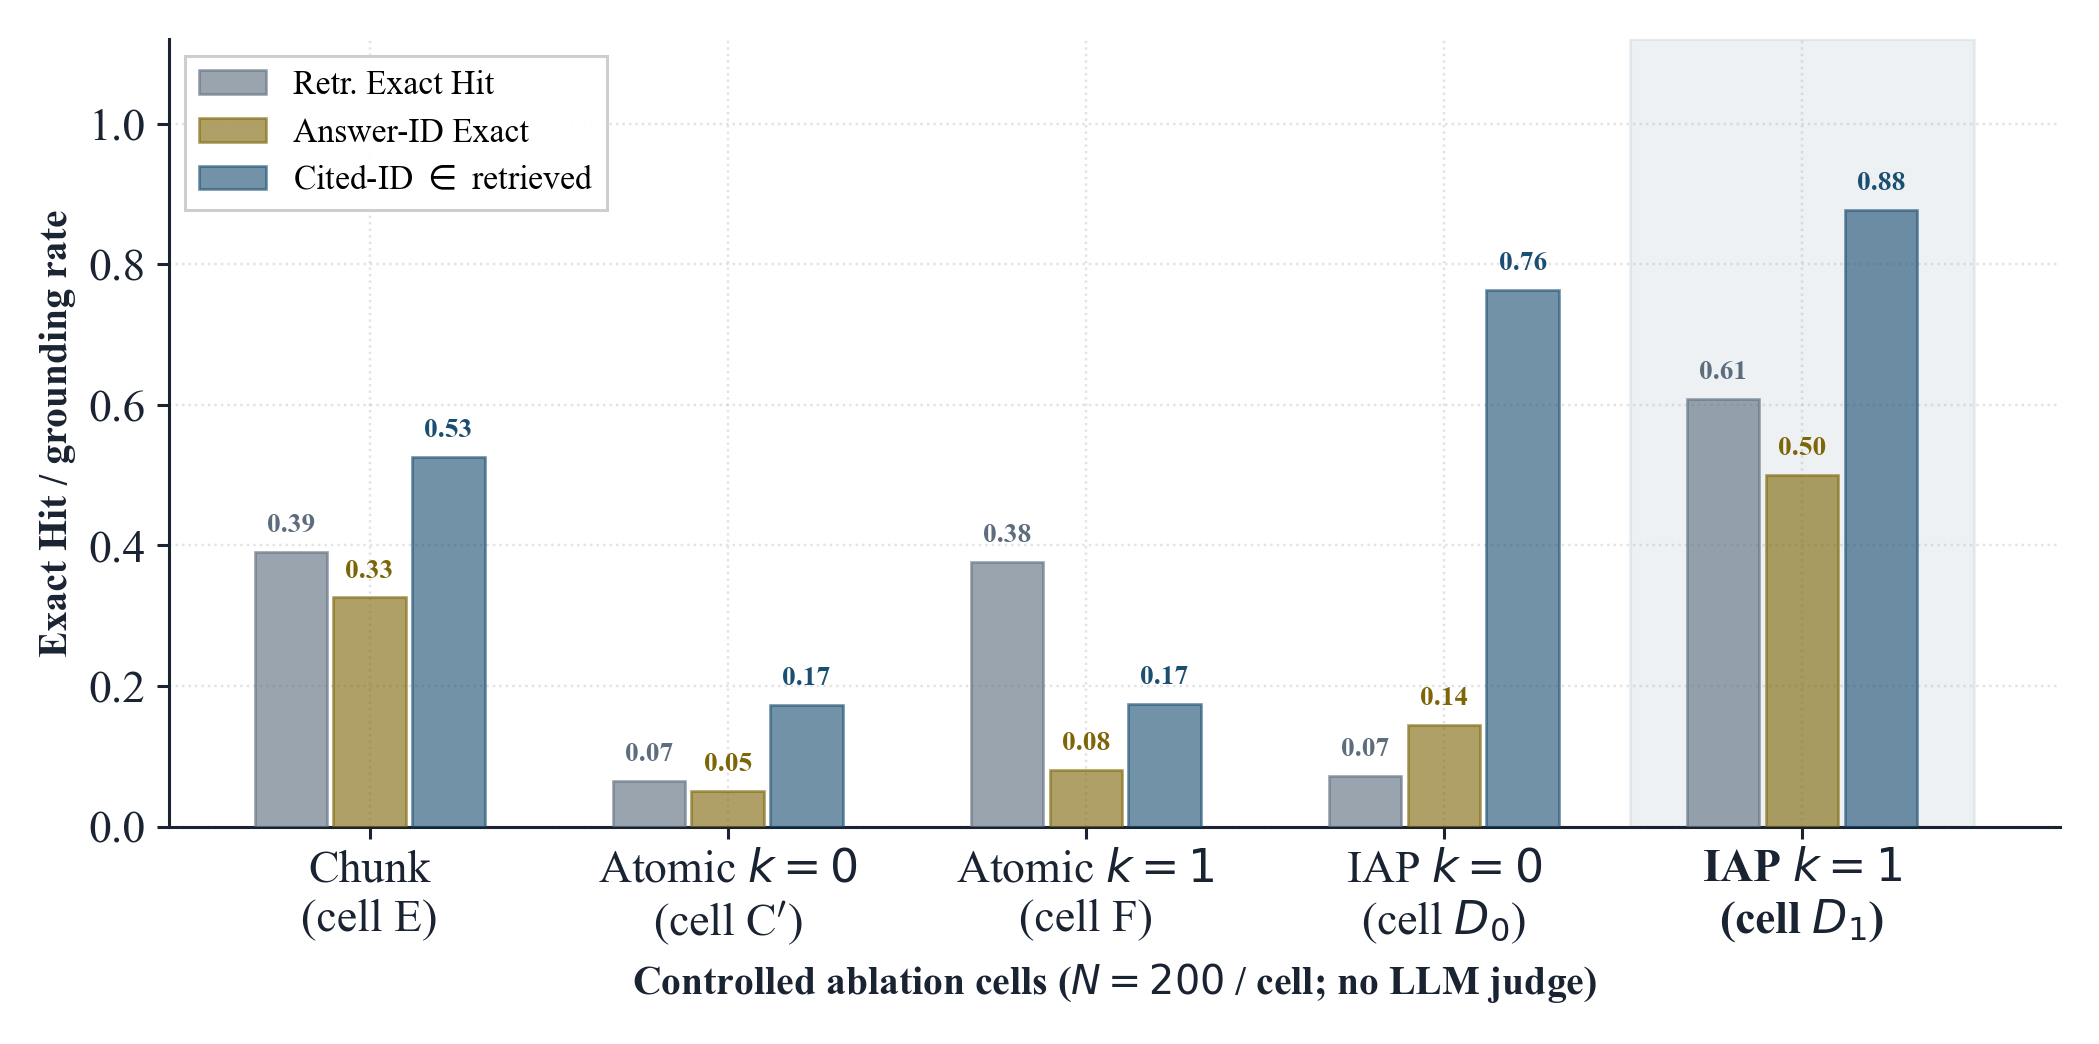
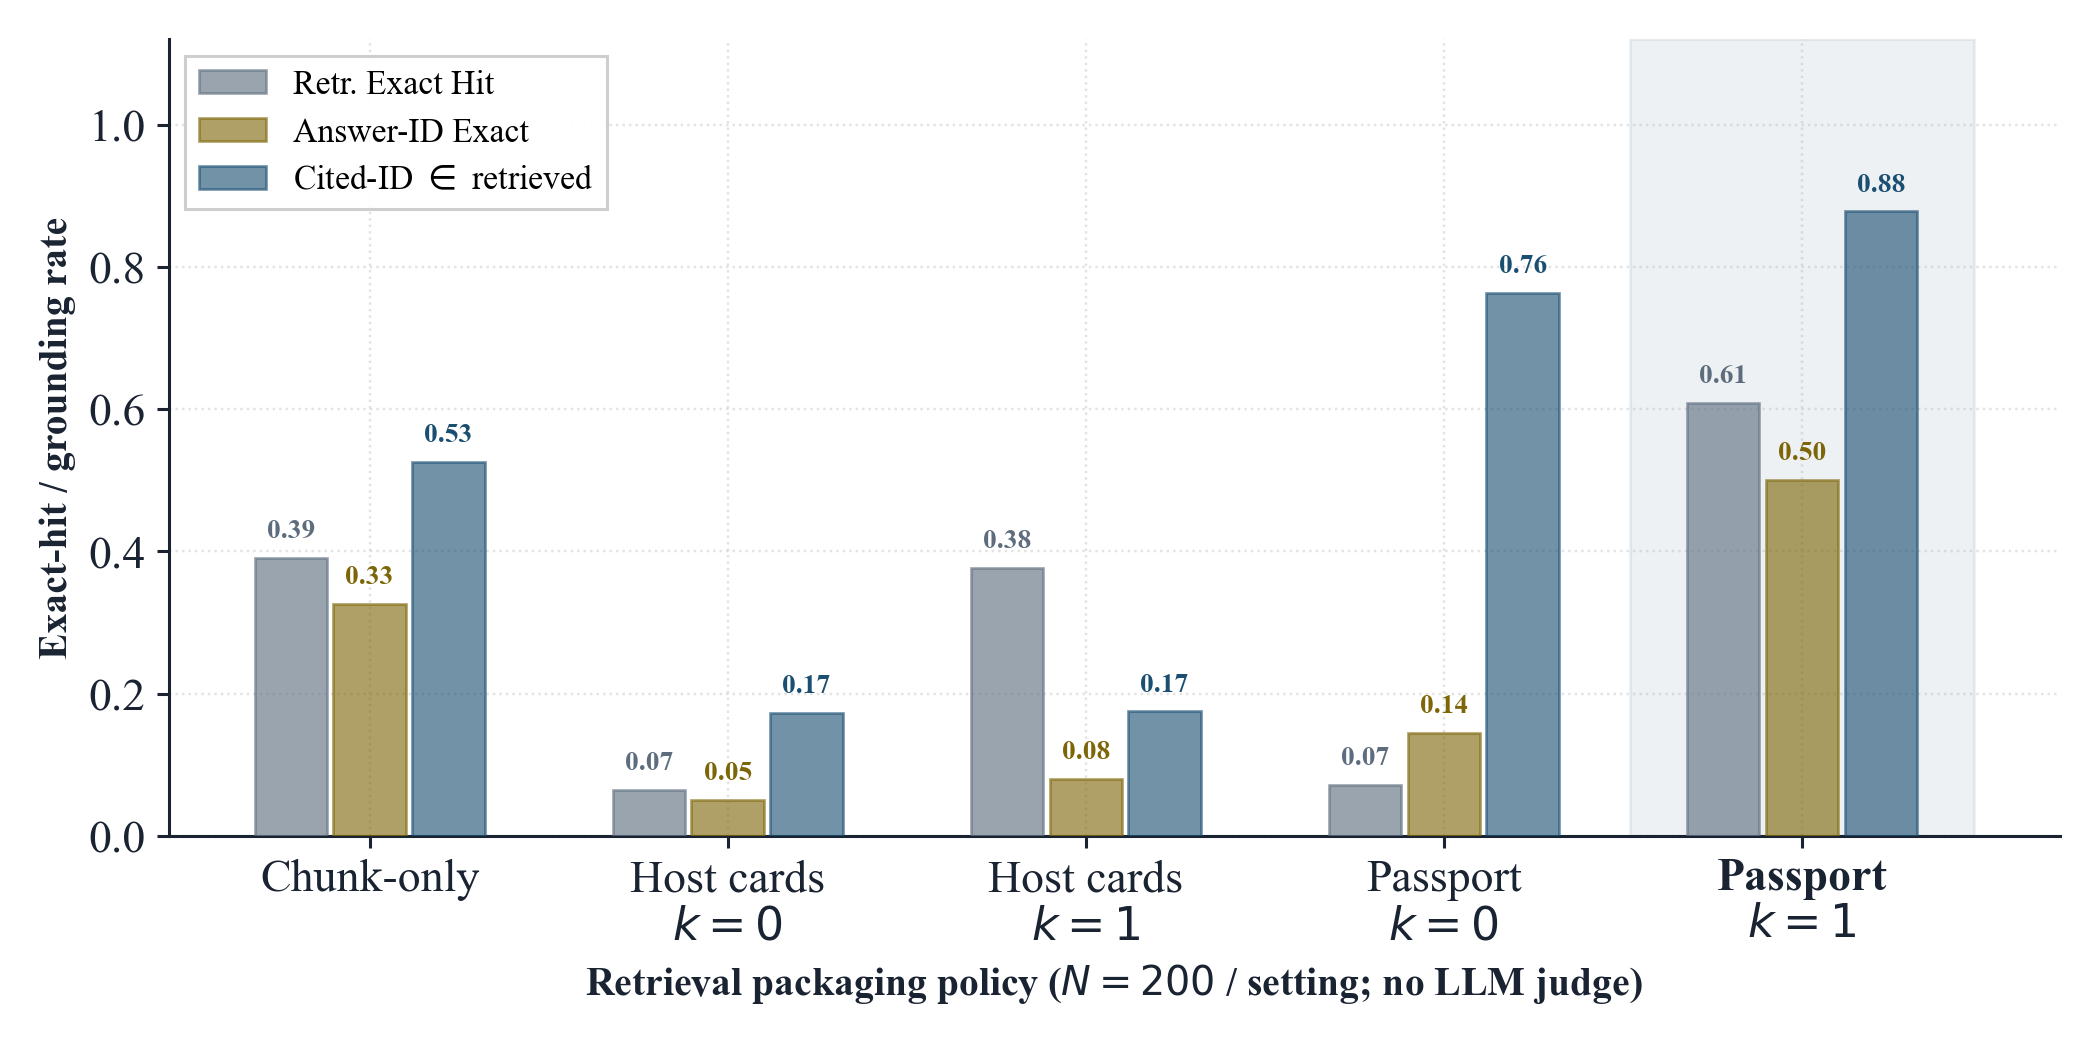
Reframe Fig 8.8 as a portable packaging-policy lesson.
Replace paper cell codes with book labels, and rewrite EN/CN caption and methods so the statistical panel teaches assembly policy rather than reprinting a paper ablation.

diff --git a/figures_src/statistical/scripts/plot_deterministic_rule_figures.py b/figures_src/statistical/scripts/plot_deterministic_rule_figures.py
@@ -43,13 +43,13 @@ TICK_FS = 12
 ANNOT_FS = 11
 LEGEND_FS = 11
 
-# Tick text is descriptive only (cell codes E/C'/F/D0/D1 stay in the LaTeX caption).
+# Book-facing labels (CSV row keys stay paper-stable; no cell codes on axes).
 ABLATION_ORDER = [
-    ("E chunk", "Chunk", "cell E"),
-    ("C' atomic k=0", "Atomic $k=0$", "cell C$'$"),
-    ("F atomic k=1", "Atomic $k=1$", "cell F"),
-    ("D0 IAP k=0", "IAP $k=0$", r"cell $D_0$"),
-    ("D1 IAP k=1", "IAP $k=1$", r"cell $D_1$"),
+    ("E chunk", "Chunk-only", "PDF chunks"),
+    ("C' atomic k=0", "Host cards\n$k=0$", "host cards, no hop"),
+    ("F atomic k=1", "Host cards\n$k=1$", "host cards + 1 hop"),
+    ("D0 IAP k=0", "Passport\n$k=0$", "asset passport"),
+    ("D1 IAP k=1", "Passport\n$k=1$", "passport + 1 hop"),
 ]
 
 # MH Exact Hit intentionally omitted from figure panels.
@@ -175,20 +175,17 @@ def plot_ablation(csv_path: Path, out_stem: Path) -> None:
 
     ax.axvspan(4 - 0.48, 4 + 0.48, color=theme_colors(None)["Ours"], alpha=0.08, zorder=0)
     ax.set_xticks(x)
-    ax.set_xticklabels(
-        [f"{name}\n({code})" for _, name, code in ABLATION_ORDER],
-        fontsize=TICK_FS,
-    )
+    ax.set_xticklabels([name for _, name, _ in ABLATION_ORDER], fontsize=TICK_FS)
     for tick, color in zip(ax.get_xticklabels(), tick_colors):
         tick.set_color(color)
     ax.get_xticklabels()[-1].set_fontweight("bold")
 
-    ax.set_ylabel("Exact Hit / grounding rate", fontweight="bold", fontsize=LABEL_FS)
+    ax.set_ylabel("Exact-hit / grounding rate", fontweight="bold", fontsize=LABEL_FS)
     ax.set_ylim(0, 1.12)
     ax.legend(loc="upper left", ncol=1, fontsize=LEGEND_FS, frameon=True, edgecolor="#cccccc")
     setup_academic_ax(ax, title=None)
     ax.set_xlabel(
-        r"Controlled ablation cells ($N=200$ / cell; no LLM judge)",
+        r"Retrieval packaging policy ($N=200$ / setting; no LLM judge)",
         fontweight="bold", fontsize=LABEL_FS,
     )
     fig.tight_layout()

diff --git a/latex/en/ch08.tex b/latex/en/ch08.tex
@@ -583,11 +583,11 @@ Write staging & twin updates pending only & draft button mutates twin \\
 \begin{figure}[htbp]
 \centering
 \includegraphics[width=\linewidth]{deterministic_ablation_exact_hit.pdf}
-\caption{Deterministic retrieval-packaging result on a frozen twin ($N=200$ questions per cell; no LLM judge): asset passports with controlled one-hop expansion retain more answer and cited IDs in the retrieved evidence than chunk-only packaging. Metrics are exact-hit rates over Asset-IDs; the figure evaluates assembly policy, not a contest among hosted chat models.}
+\caption{Worked quantitative illustration of retrieval packaging for inspection language systems. On one frozen twin and a fixed question set ($N=200$ per packaging setting; deterministic Asset-ID exact-hit metrics; no LLM as judge), passport-centred packs with controlled one-hop expansion keep more answer and cited IDs inside the retrieved evidence than chunk-only packs. Read the figure as a general design lesson about assembly policy, not as a site census or a leaderboard among hosted chat models.}
 \label{fig:ch8-ablation}
 \end{figure}
 
-Figure~\ref{fig:ch8-ablation} reports a deterministic packaging experiment used to justify passport-centred assembly for reports. Setup: a frozen twin snapshot; $N=200$ queries per packaging cell; no LLM as judge; primary metrics \texttt{retr\_exact\_hit} and answer/cited ID containment. Source summaries live under \texttt{figures\_src/statistical/data/}. Hop depth therefore belongs to evidence-assembly policy, not free prompt choice~\cite{lewis2020,jeon2025hybridrag,lee2024ragsafety}. Report drafts inherit that policy under V1--V4.
+Figure~\ref{fig:ch8-ablation} is kept in the monograph because Springer-style chapters may use a compact statistical panel when the panel teaches a \emph{portable design choice}, not when it merely reprints a paper ablation. The intended reading is broader than any one warehouse campaign: for asset-centred O\&M questions, packaging policy (chunk text versus host cards versus versioned asset passports, with or without typed one-hop neighbours) changes whether cited IDs remain inside the evidence set that validators can check. Protocol, stated so the numbers are not ornamental: freeze a twin snapshot; hold the question set fixed; score packaging cells with deterministic ID containment (\texttt{retr\_exact\_hit}, answer-ID exact, cited-ID-in-retrieved); do not use an LLM as judge; keep source summaries under \texttt{figures\_src/statistical/data/}. Absolute rates are twin- and question-set-specific and must not be copied as universal field KPIs; the transferable claim is that hop depth and passport structure belong to evidence-assembly policy under V1--V4, not to free prompt wording~\cite{lewis2020,jeon2025hybridrag,lee2024ragsafety}. Report drafts in this section inherit that policy.
 
 Report lifecycle is a state machine:
 \texttt{DRAFT}$\rightarrow$\texttt{VALIDATED}$\rightarrow$\texttt{UNDER\_REVIEW}$\rightarrow$\texttt{APPROVED}/\texttt{REJECTED}$\rightarrow$\texttt{EXPORTED}$\rightarrow$\texttt{WRITE\_STAGED}$\rightarrow$\texttt{WRITE\_COMMITTED}.
@@ -642,7 +642,7 @@ Agent safety & Gates on write/dispatch? & silent twin mutation \\
 \toprule
 Capability & Status in this chapter & Evidence needed \\
 \midrule
-Asset-based retrieval & proposed + packaging eval & Fig.~\ref{fig:ch8-ablation} \\
+Asset-based retrieval & proposed + packaging illustration & Fig.~\ref{fig:ch8-ablation} \\
 Historical query & proposed (ID map required) & cross-campaign case \\
 Multimodal explanation & proposed + rules & conflict walkthrough \\
 Report generation & proposed schema & claim schema + human review \\
@@ -654,7 +654,7 @@ Predictive maintenance & external-model interface / future & time-series validat
 
 The rubric should be scored at the level of actions, not only at the level of sentences. A grounded paragraph that never changes a maintenance schedule has limited O\&M value; a terse ranked list of Asset-IDs with openable evidence may already plan a gondola week. Monthly boards can therefore track invented-ID rate, openable-evidence rate, modality-conflict disclosure rate, revisit-hint adoption, and, when a work-system export exists, export no-rewrite rate~\cite{lee2024ragsafety,luo2025llmdtrobot,rawat2025llmmas,liang2023helm}. If a hosted-LLM swap improves fluency but worsens invented IDs, reject the swap. If fluency is unchanged but TRACE completeness improves, accept the harness change. Model-size leaderboards remain secondary to those operability curves.
 
-Figure~\ref{fig:ch8-ablation} gives one compact illustration of the rubric: retrieval packaging and controlled one-hop expansion can improve grounding. Assess that outcome by intent and by the safety of the final action, including whether cite-or-abstain validators catch unsupported IDs~\cite{ji2023,peng2024,lee2024ragsafety}.
+Figure~\ref{fig:ch8-ablation} supplies one compact quantitative check for that rubric: under a frozen twin, packaging policy and controlled one-hop expansion can raise ID containment before any fluency ranking. Readers should still judge systems by intent coverage and by the safety of the final action, including whether cite-or-abstain validators catch unsupported IDs~\cite{ji2023,peng2024,lee2024ragsafety}.
 
 Predictive maintenance in this chapter is therefore three deliverables, not one slogan. First, \emph{triage}: a ranked Asset-ID list with openable evidence for the next gondola week. Second, \emph{conditional advice}: statements such as ``risk rises if infrared is missing on the upstairs neighbour'' that name the missing evidence and stop short of inventing it. Third, \emph{external prognosis}: when a non-LLM temporal model exists, the harness may present its read-only output beside cited observations; the language system must not invent year-ahead spalling probabilities from a single campaign~\cite{gao2026ifcagent,zhang2025llmagentschema,zhao2026physical}.
 

diff --git a/latex/en/cn/ch08_cn.tex b/latex/en/cn/ch08_cn.tex
@@ -608,11 +608,11 @@ ID 子集 & 资产/缺陷 ID $\subseteq$ 证据包 & 虚构板块编码 \\
 \begin{figure}[htbp]
 \centering
 \includegraphics[width=\linewidth]{deterministic_ablation_exact_hit.pdf}
-\caption{冻结孪生上的确定性检索封装结果（每格 $N=200$ 题；无 LLM 评判）：带受控一跳扩展的资产护照比仅切块封装更能使答案与被引 ID 留在检索证据中。指标为 Asset-ID 上的精确命中率；该图评价装配策略，而非托管聊天模型之间的竞赛。}
+\caption{巡检语言系统检索封装的定量示意。在同一冻结孪生与固定题集上（每种封装设定 $N=200$；确定性 Asset-ID 精确命中指标；不以 LLM 为评判），带受控一跳扩展的护照中心证据包比仅切块封装更能把答案 ID 与被引 ID 留在检索证据内。宜读作关于装配策略的通用设计课，而不是某一现场普查，也不是托管聊天模型排行榜。}
 \label{fig:ch8-ablation}
 \end{figure}
 
-图~\ref{fig:ch8-ablation}报告一项为报告装配辩护的确定性封装实验。设定：冻结孪生快照；每封装格 $N=200$ 查询；不以 LLM 为评判；主指标 \texttt{retr\_exact\_hit} 与答案/被引 ID 包含率。源摘要位于 \texttt{figures\_src/statistical/data/}。跳数因此属于证据装配策略，而非自由提示选择~\cite{lewis2020,jeon2025hybridrag,lee2024ragsafety}。报告草稿在 V1--V4 下继承该策略。
+图~\ref{fig:ch8-ablation}保留在专著中，是因为书中统计图应服务于\emph{可迁移的设计选择}，而不是复述单篇论文的消融表。更广的读法是：对以资产为中心的运维问题，封装策略（切块文本 / 宿主卡片 / 带版本资产护照，以及是否加入有类型的一跳邻域）会改变被引 ID 是否仍落在校验器可检查的证据集内。协议写清，避免把数字当成装饰：冻结孪生快照；固定题集；用确定性 ID 包含率（\texttt{retr\_exact\_hit}、答案 ID 精确命中、被引 ID$\in$检索集）给封装设定打分；不以 LLM 为评判；源摘要见 \texttt{figures\_src/statistical/data/}。绝对命中率依赖该孪生与题集，不得抄成通用现场 KPI；可迁移的主张是：跳数与护照结构属于 V1--V4 下的证据装配策略，而非自由提示措辞~\cite{lewis2020,jeon2025hybridrag,lee2024ragsafety}。本节报告草稿继承该策略。
 
 报告生命周期为状态机：
 \texttt{DRAFT}$\rightarrow$\texttt{VALIDATED}$\rightarrow$\texttt{UNDER\_REVIEW}$\rightarrow$\texttt{APPROVED}/\texttt{REJECTED}$\rightarrow$\texttt{EXPORTED}$\rightarrow$\texttt{WRITE\_STAGED}$\rightarrow$\texttt{WRITE\_COMMITTED}。
@@ -667,7 +667,7 @@ ID 子集 & 资产/缺陷 ID $\subseteq$ 证据包 & 虚构板块编码 \\
 \toprule
 能力 & 本章状态 & 所需证据 \\
 \midrule
-基于资产的检索 & 提议 + 封装评价 & 图~\ref{fig:ch8-ablation} \\
+基于资产的检索 & 提议 + 封装示意 & 图~\ref{fig:ch8-ablation} \\
 历史查询 & 提议（需 ID 映射） & 跨航次案例 \\
 多模态解释 & 提议 + 规则 & 冲突走读 \\
 报告生成 & 提议 schema & 声明 schema + 人工审阅 \\
@@ -679,7 +679,7 @@ ID 子集 & 资产/缺陷 ID $\subseteq$ 证据包 & 虚构板块编码 \\
 
 量规应按行动层计分，而不能只按句子层计分。一段从不改变维修排程的接地段落，运维价值有限；一份带可打开证据的 Asset-ID 简短排序，可能已足够安排一周吊篮。月度看板因此可跟踪虚构 ID 率、可打开证据率、模态冲突披露率、复访提示采纳率，以及在存在工作系统导出时的免重写导出率~\cite{lee2024ragsafety,luo2025llmdtrobot,rawat2025llmmas,liang2023helm}。若更换托管 LLM 提升了流畅度却恶化了虚构 ID，应拒绝替换；若流畅度不变而 TRACE 完整度上升，应接受 harness 变更。模型参数量排行榜次于这些可运维曲线。
 
-图~\ref{fig:ch8-ablation}提供一项紧凑的教学示意：护照封装与受控一跳扩展可改善接地。应按意图与最终行动的安全性评价该结果，包括引用或拒答校验器能否拦截无证据的 ID~\cite{ji2023,peng2024,lee2024ragsafety}。
+图~\ref{fig:ch8-ablation}为该量规提供一项紧凑的定量核对：在冻结孪生下，封装策略与受控一跳扩展可在任何流畅度排名之前提高 ID 包含率。读者仍应按意图覆盖与最终行动安全性评价系统，包括引用或拒答校验器能否拦截无证据的 ID~\cite{ji2023,peng2024,lee2024ragsafety}。
 
 因此本章的预测性维护是三项交付，而不是一句口号。其一是\emph{分诊}：带可打开证据的 Asset-ID 排序，服务下一周吊篮。其二是\emph{条件建议}：如``若上层邻居缺少红外，则风险上升''，点名缺失证据并止步于虚构。其三是\emph{外部预后}：若存在非 LLM 时序模型，harness 可把其只读输出与被引观测并排呈现；语言系统不得从单次航次发明未来一年的剥落概率~\cite{gao2026ifcagent,zhang2025llmagentschema,zhao2026physical}。
 

diff --git a/STATUS.md b/STATUS.md
@@ -32,3 +32,4 @@
 **Reader-first float cut (2026-07-22):** EN/CN thinned to ~10 figs + ~12 tabs + 1 algorithm; removed paper-audit / lit-map stack; ablation kept as grounding-outcome teaching panel only.  
 **Sync polish (2026-07-22):** keywords; shortened §8.2/§8.6 lit dumps; predictive maintenance as triage/conditional/external-prognosis; CN duplicate agent para removed; topic-label openers smoothed.
 **Major revision (2026-07-22):** fixed TOC 8.1–8.6; §8.1 DT definition + maturity/`upstream` tables + governance; §8.2 harness I/O six-row table + lit compress; §8.3 Asset/Obs/Defect/Passport + typed graph + V1–V4 + ID map; §8.4 fusion scope/levels + VLM rules + JSON API + security; §8.5 claim-level schema + state machine + TRACE versions; **Fig 8.8 Scheme A** — keep `deterministic_ablation_exact_hit.pdf` + $N=200$, methods paragraph → `figures_src/statistical/data/`; §8.6 triage/conditional/predictive split + symbolic `eq:ch8-score` + `tab:ch8-cap-maturity` + `par:ch8-e2e` warehouse walkthrough (EN+CN).
+**Fig 8.8 book framing (2026-07-22):** axis labels → packaging policy (Chunk-only / Host cards / Passport ± $k$); caption+prose as portable design lesson (not paper cell codes / not site KPI / not chat-model leaderboard); EN+CN.